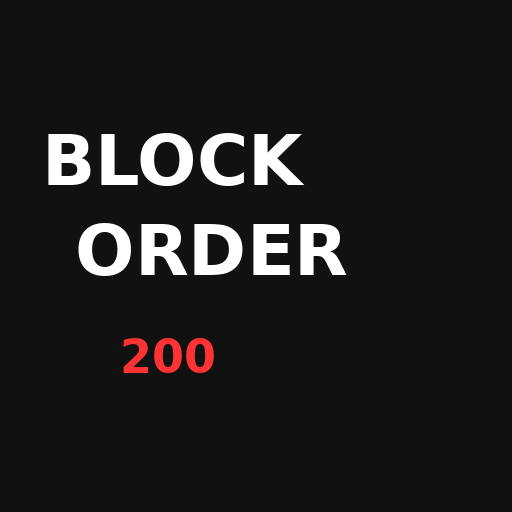
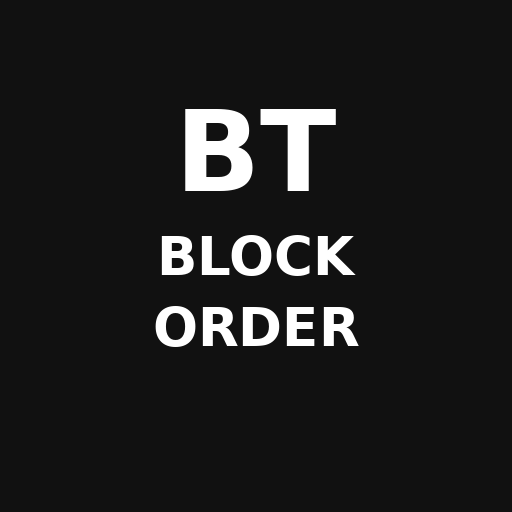
Add files via upload

Changed region(s): [[0.0938, 0.1875, 0.6562, 0.375], [0.125, 0.4375, 0.6875, 0.5625], [0.2188, 0.5938, 0.7188, 0.75]]

diff --git a/sw.js b/sw.js
@@ -1,4 +1,5 @@
-const CACHE = 'adbri-block-order-v1';
+const CACHE = 'bt-block-order-v1-3';
 const FILES = ['./', './index.html', './manifest.webmanifest', './icon-192.png', './icon-512.png'];
 self.addEventListener('install', e => e.waitUntil(caches.open(CACHE).then(c => c.addAll(FILES))));
+self.addEventListener('activate', e => e.waitUntil(caches.keys().then(keys => Promise.all(keys.filter(k => k !== CACHE).map(k => caches.delete(k))))));
 self.addEventListener('fetch', e => e.respondWith(caches.match(e.request).then(r => r || fetch(e.request))));